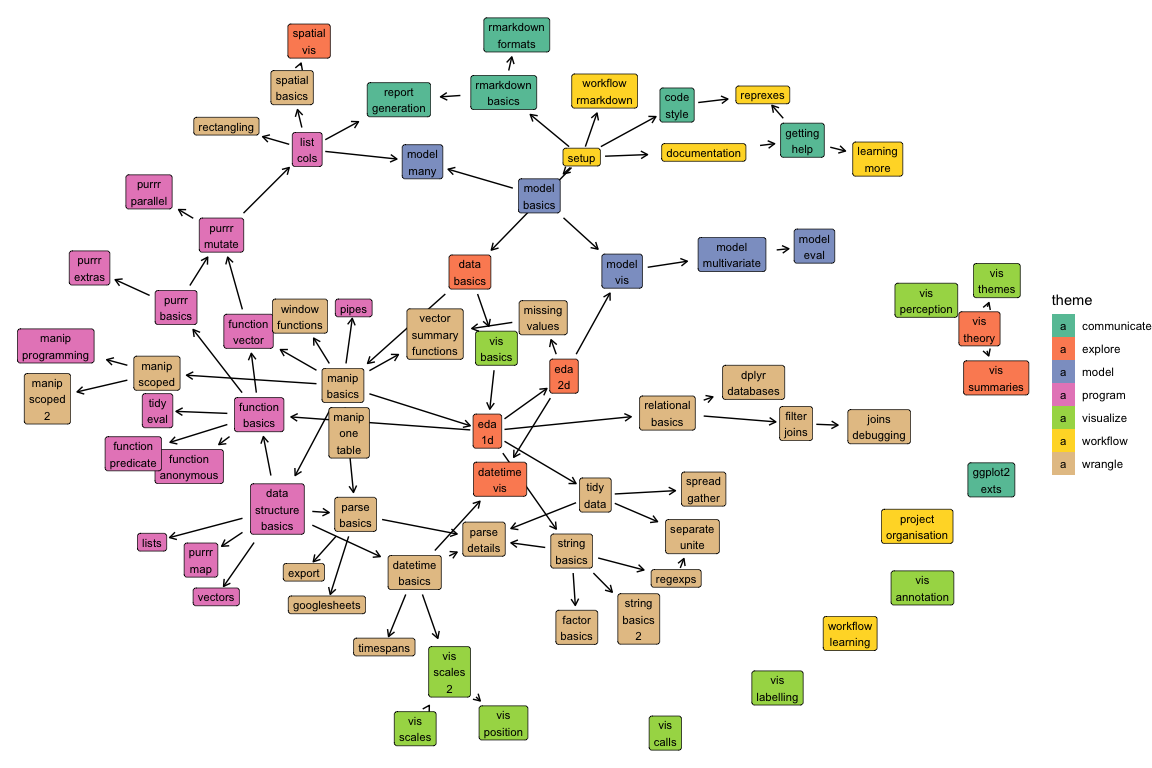
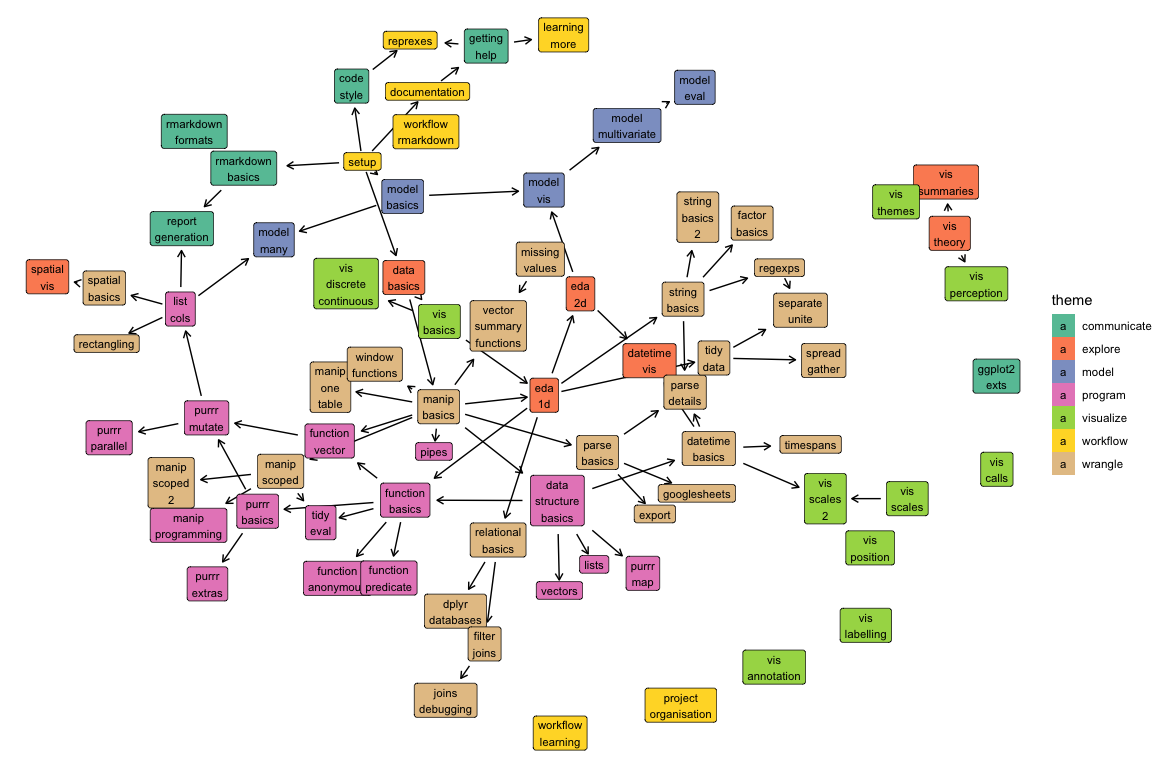
Update

Changed region(s): [[0.0, 0.0, 0.9062, 1.0]]

diff --git a/docs/code-style.md b/docs/code-style.md
@@ -12,17 +12,21 @@ Code style is simultaneously incredibly important and utterly trivial.
 It'slikepunctuation: sureyoucanmakedowithoutit, but proper punctuation
 can sure make things easier to read!
 
+The specific style you follow is not as important as picking a consistent
+style and sticking to it. When you're working with others, it's a really
+good idea to share a common style so that everyone can easily read and
+write the code. These readings will introduce you to a common style.
+
 Install styler with `install.packages("styler")` and make sure you can
 locate the RStudio addin command for restyling selected code. This will
 make it very easy to apply the tidyverse style guide automatically.
 
 ## Readings
 
+  * [DCL style guide](https://github.com/dcl-docs/style-guide/blob/master/style-guide.md)
+
   * [Style guide](http://style.tidyverse.org).
-    Read Chapters 1-4. The specific style you follow is not as important as
-    picking a consistent style and sticking to it. When you're working with
-    others, it's a really good idea to share a common style so that everyone
-    can easily read and write the code. In this class, we'll use the tidyverse
-    style guide.
+    The official tidyverse style guide includes more information than the DCL
+    style guide. Take a look at chapters 1-4.
 
 

diff --git a/docs/vis-discrete-continuous.md b/docs/vis-discrete-continuous.md
@@ -1,0 +1,19 @@
+---
+title: Discrete-continuous relationships
+---
+
+<!-- Generated automatically from vis-discrete-continuous.yml. Do not edit by hand -->
+
+# Discrete-continuous relationships <small class='visualize'>[visualize]</small>
+<small>(Builds on: [Visualization basics](vis-basics.md))</small>
+
+Now that you know the basics of ggplot2, you can begin diving into specific 
+visualization situations. In this reading, you'll learn about visualizing 
+numbers and amounts across different categories. You'll also learn about 
+coordinate systems in ggplot2.
+
+## Readings
+
+  * [Discrete-continuous relationships](https://bookdown.org/content/2138/discrete-continuous.html) [vis-wisdom-2]
+
+

diff --git a/docs/vis-basics.md b/docs/vis-basics.md
@@ -6,7 +6,7 @@ title: Visualization basics
 
 # Visualization basics <small class='visualize'>[visualize]</small>
 <small>(Builds on: [Data basics](data-basics.md))</small>  
-<small>(Leads to: [Exploratory data analysis (1D)](eda-1d.md))</small>
+<small>(Leads to: [Exploratory data analysis (1D)](eda-1d.md), [Discrete-continuous relationships](vis-discrete-continuous.md))</small>
 
 Data visualization is one of the most important tools of data science.
 It's also a great place to start learning a programming language because
